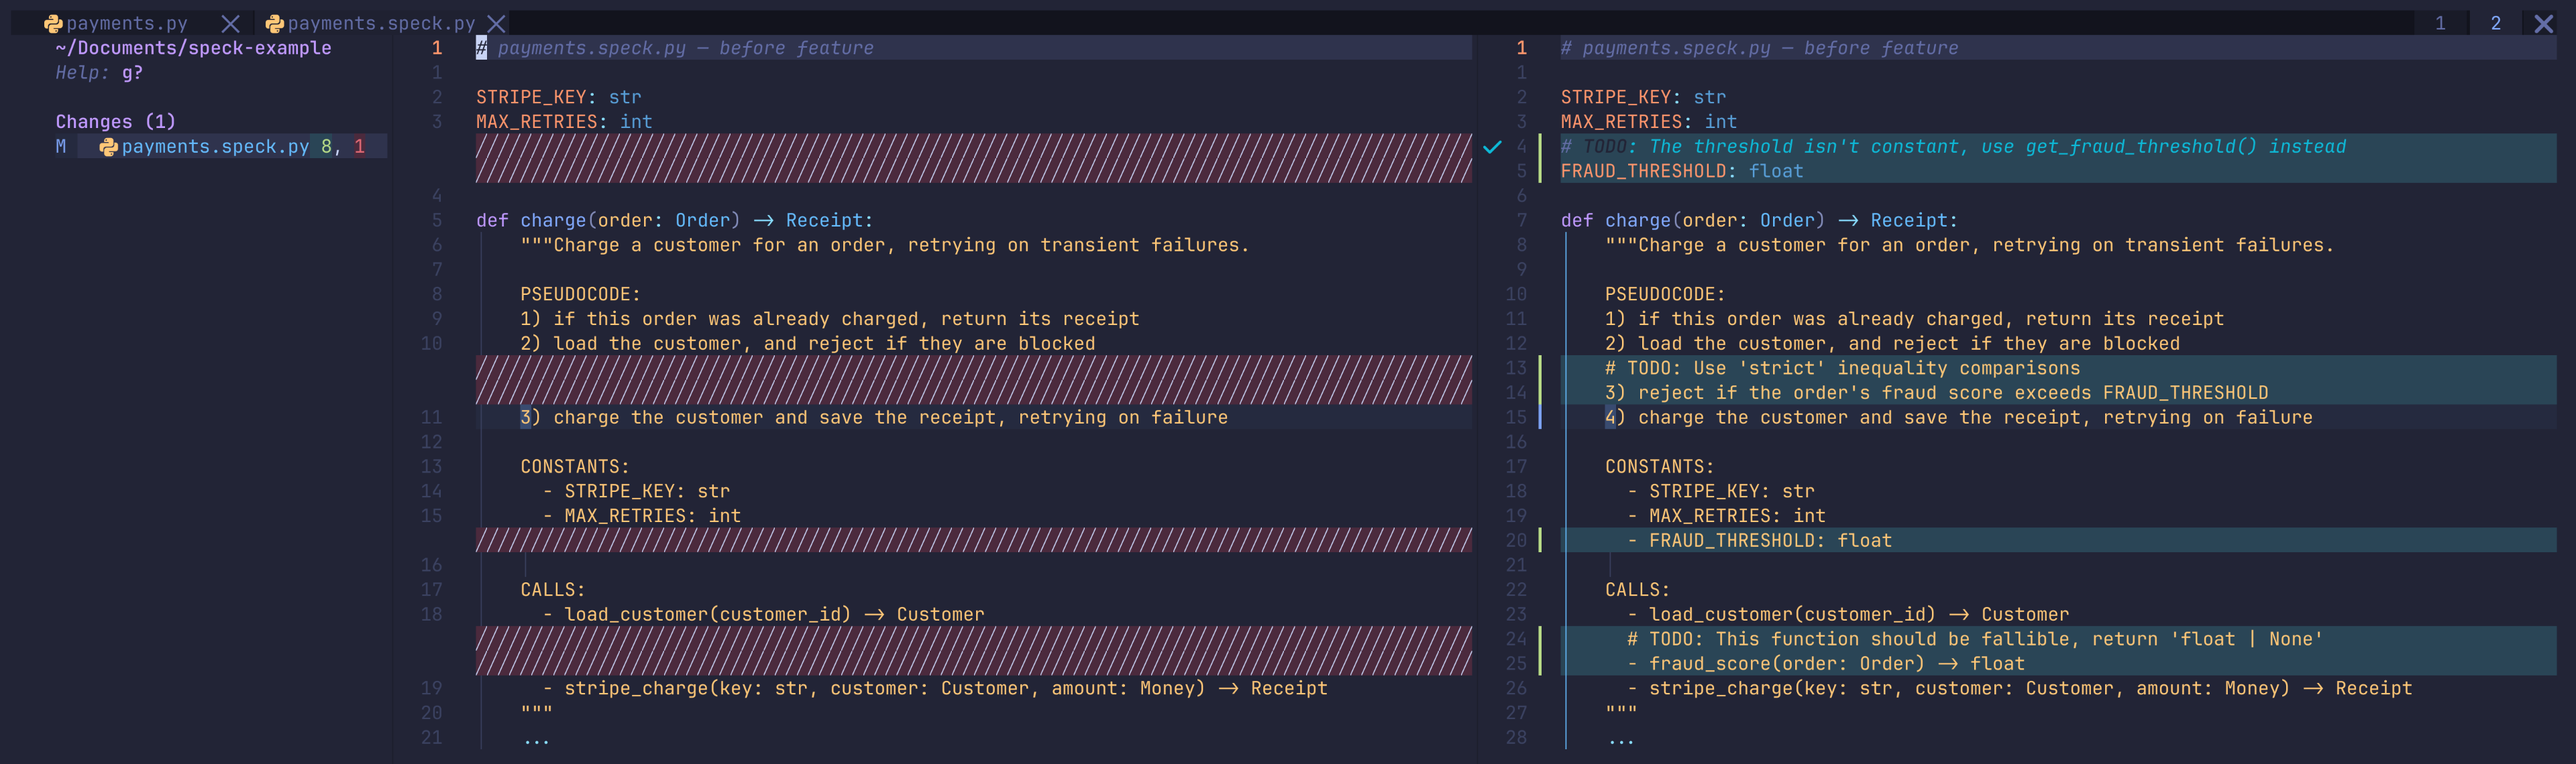
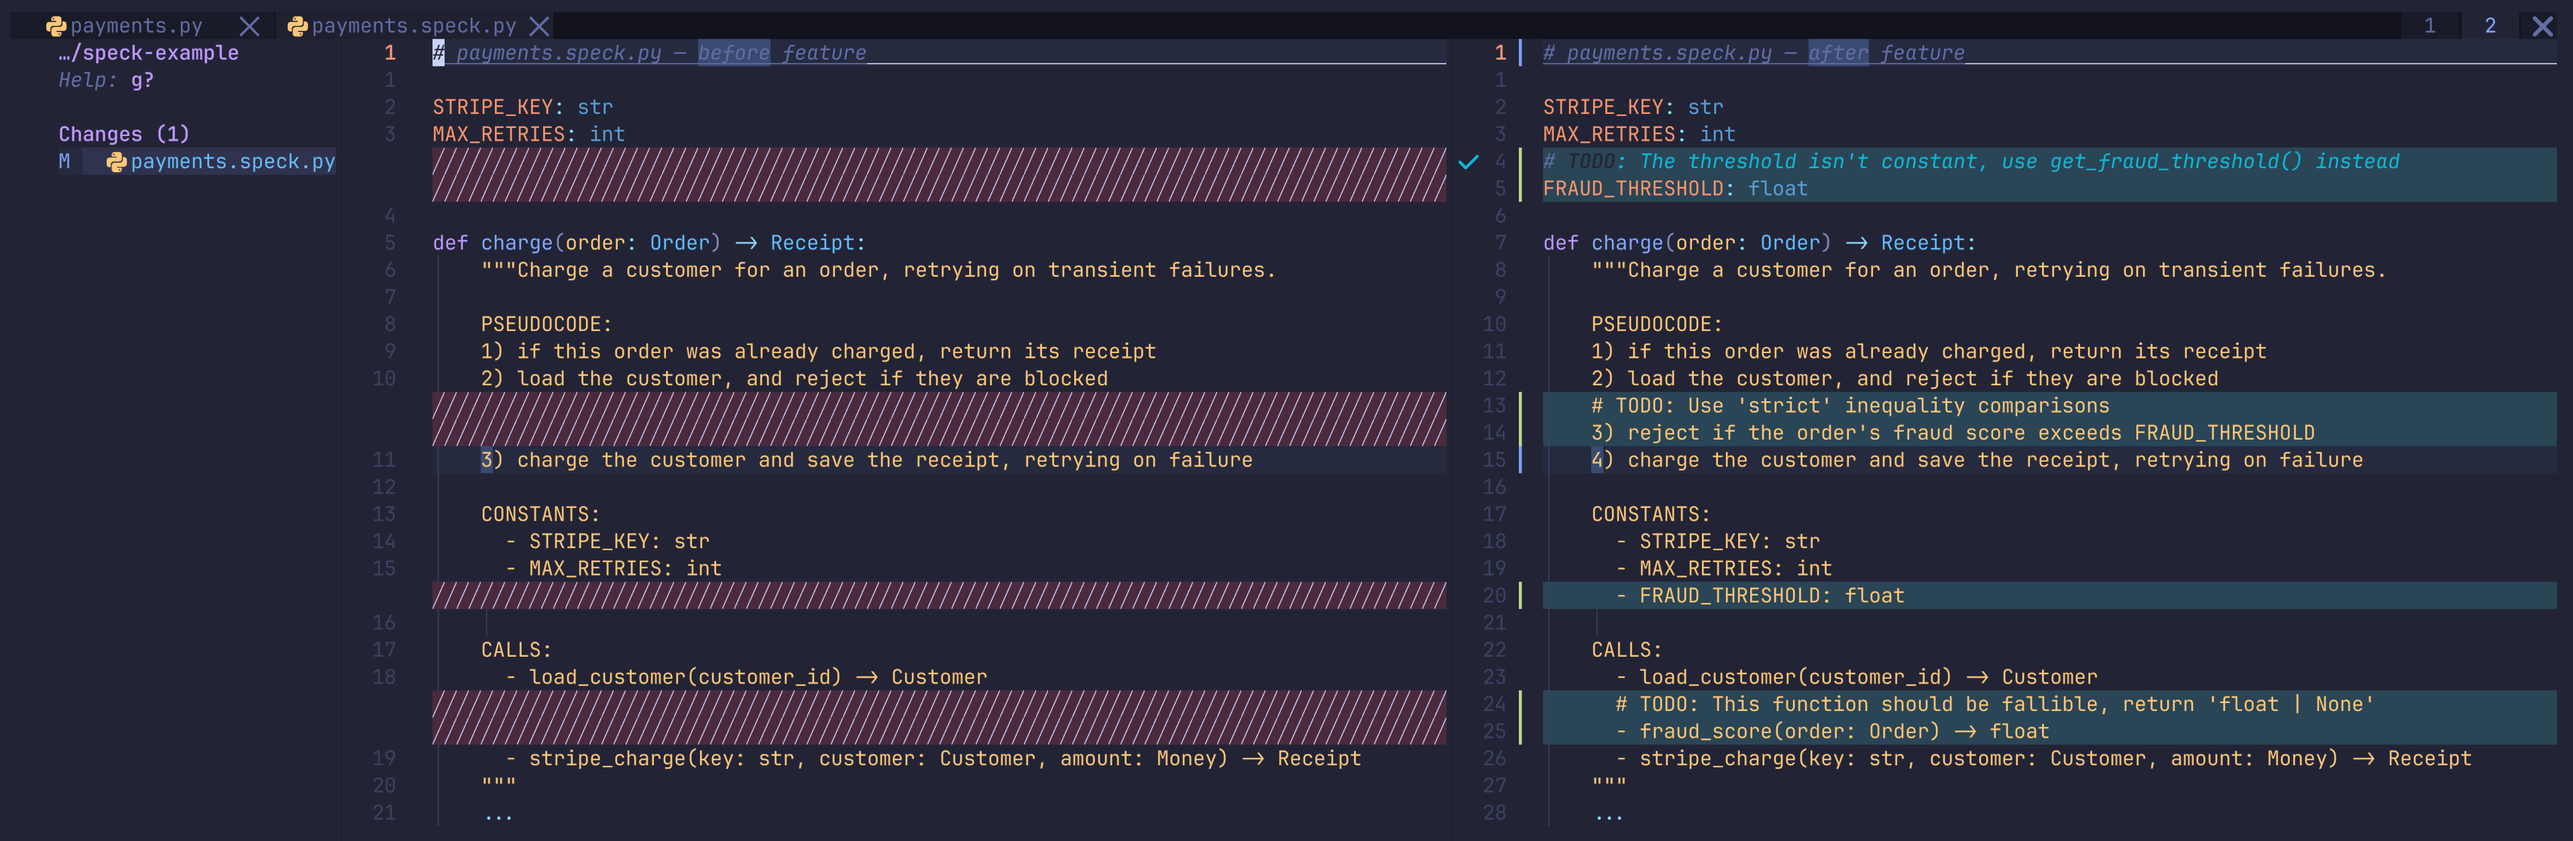
Update README images + add bug fixes to skill

diff --git a/SKILL.md b/SKILL.md
@@ -93,6 +93,8 @@ Workflow rules:
 
 Follow these steps in a strict order. NEVER skip steps. See Rules for a list of rationalizations that do NOT justify skipping.
 
+Use these step numbers internally to keep track of where you are in the workflow and to avoid skipping steps. But avoid referring to these step numbers when communicating with the user as they are not aware of the skill's internals.
+
 ### 1. Get planned feature
 
 If the user has already planned a feature, immediately continue to step 2.
@@ -234,6 +236,8 @@ Take care that empty / incomplete implementation markers should not move between
 
 ### 7. Iterating on the design
 
+Now stop and check the speck with the user. Do not continue until the user has given approval.
+
 **IMPORTANT:** Before every conversation, check if any of the speck files have been modified by the user.
 
 Incorporate user directives (e.g. `# Change this to X`, `# Instead do Y`) as implementation instructions into the speck file definition, updating comments and docstrings if necessary.
@@ -257,20 +261,20 @@ git stash pop
 
 ### 7.1. Consistency check
 
-Before generating code, review all speck files for errors, inconsistencies, or contradictions between files. Fix any issues found before proceeding.
+Before moving onto the next step, first stop and review speck files for errors, inconsistencies, and contradictions. Work with the user to fix any issues found before proceeding.
 
 ### 8. Tests
 
-Check with the user to see if they want to speck tests.
+Check with the user to see if they want to create speck files for program tests before implementation.
 
-If they say yes: repeat steps 4 -> 7 for all test files related to the feature change.
+If they say yes: repeat steps 4 -> 7.1 for all test files related to the feature change.
 
-If they say no: still implement tests, but do not create speck test files.
+If they say no: proceed straight to the next step. But still implement the tests and create speck files for the tests after they have been generated.
 
 ### 9. Sign-off and implementation
 
 Sign-off steps:
-1) To proceed, the user must explicitly say "I sign off on the speck changes, proceed with implementation"
+1) To proceed, the user must explicitly say "I sign off on the speck changes"
 2) Before generating code, review all speck files for errors, inconsistencies, or contradictions between files. Fix any issues found before proceeding.
 
 **IMPORTANT:** Never generate any non-`.speck` files until explicit implementation signoff has been given. If it is ever ambiguous whether signoff has been given, check with the user first.
